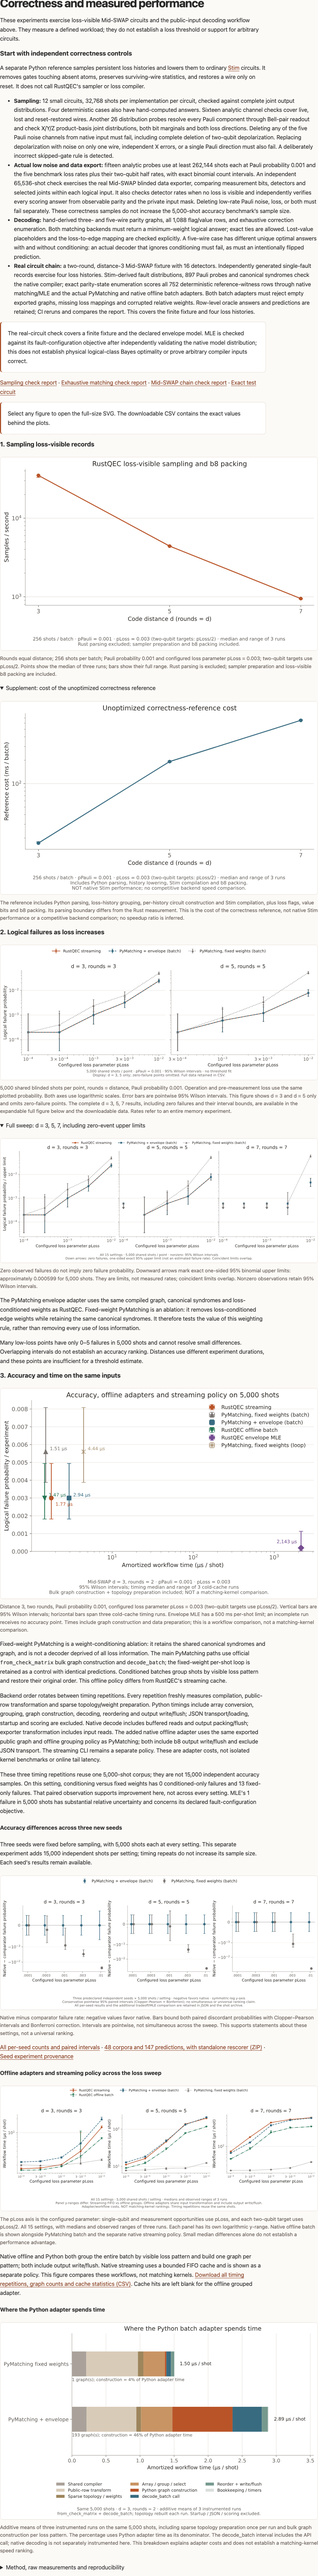
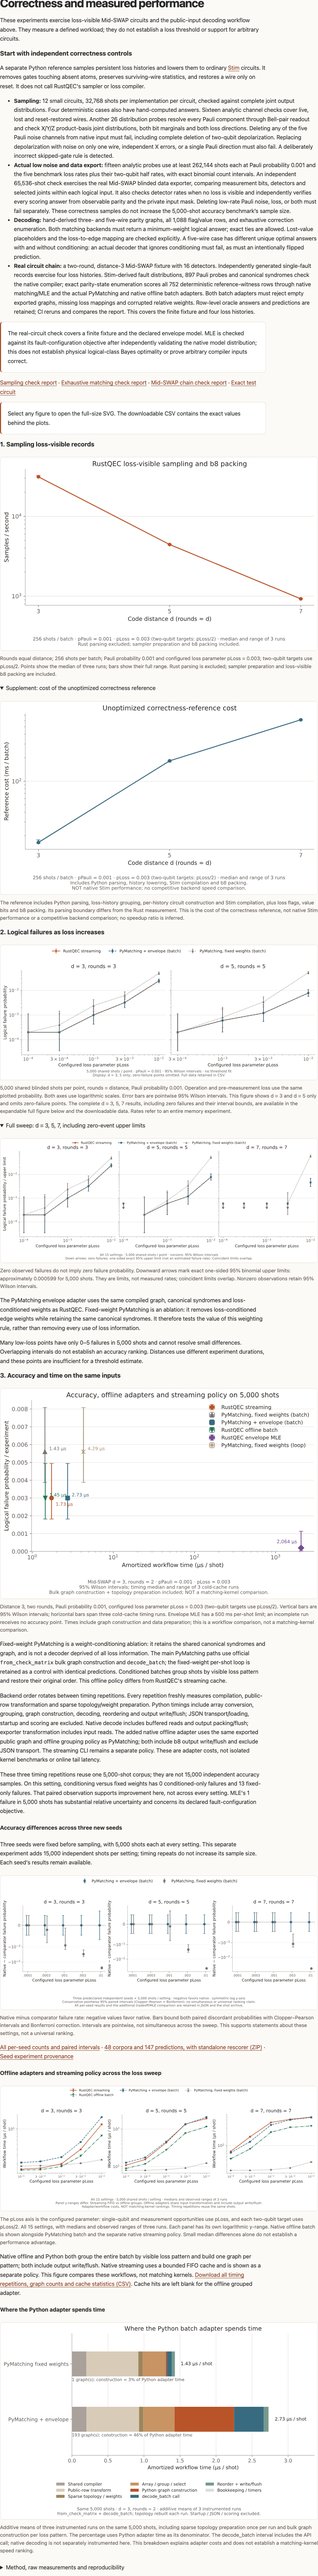
docs: record five fresh PR review rounds and final validation

diff --git a/docs/test-reports/atom-loss-docs/README.md b/docs/test-reports/atom-loss-docs/README.md
@@ -311,3 +311,63 @@ unresolved material issue remained within this exported-graph oracle scope.
 All 62 tests passed again after the deterministic-witness change
 (`drafts/round14-tests.log`, 236.403 seconds). Hosted CI on the pushed artifact
 commit must complete the final Linux native build and all archived-corpus replays.
+
+
+### Repeated fresh-context review of the complete PR
+
+The original user review prompt was recovered from four other Codex tasks:
+“审核PR712 重点看里面做的benchmark是否公平合理 有没有会被攻击的漏洞”.
+Ten new reviewers were run in five rounds, two per round, without inherited
+conversation or prior finding lists. Each reviewed the complete PR diff, not
+only the latest patch. Confirmed findings were fixed before freezing clean
+source and regenerating all evidence for the next round.
+
+| Round | Candidate | Confirmed new evidence-contract gaps |
+| --- | --- | --- |
+| 1 | `afaa9347` | Incomplete decoder-oracle observations; contradictory runtime provenance. |
+| 2 | `dc8313cb` | Sampling negative-control summaries not reconstructed from complete affected observations. |
+| 3 | `2ac3490d` | Work/graph counters not tied to public loss patterns and current decoder observations. |
+| 4 | `e28b515e` | Standalone ZIP scoring accepted missing comparators and inconsistent score/paired fields. |
+| 5 | `88bb87bf` | Neither independent reviewer found an unresolved material issue within the declared scope. |
+
+The fixes retain raw oracle and negative-control observations, independently
+recompute their conclusions, bind workload counts to public inputs and current
+replay, and enforce complete independently scored standalone archives. A
+regression in validation error ordering was also corrected; the final complete
+suite passes. Current published accuracy values were repeatedly independently
+recomputed and found correct throughout these reviews.
+
+The final measured source is
+`b7c274252438e015ea5a2987b06bc8afb2ceb63d`, with **750 bound inputs**. The clean
+run freshly rebuilt five binaries and regenerated all evidence and timings.
+All 537 `.b8` archive entries remain byte-identical to the previous revision,
+including all 64 public corpora/masks/answers and 345 prediction files.
+
+Final local validation:
+
+- **87 tests passed**, across the eight test modules in the evidence CI workflow
+  (`drafts/round18-tests.log`, 487.546 seconds).
+- Both ordinary and optimized-Python full verification passed.
+- Current generator replay matched all 64 corpora. Current decoder replay
+  matched all 213 backend/corpus combinations, all 345 predictions, scores and
+  the original non-time work counters.
+- All eight figures matched Linux/macOS redraws; eight site checks, Chromium
+  and Firefox evidence tests, desktop capture and mobile overflow checks passed.
+- Both final reviewers independently rescored all 64 corpora and 345 predictions
+  and recomputed paired intervals. Each also executed the ten d7/high-loss and
+  tradeoff decoder combinations against current binaries.
+- Reviewer 09 added a separate seven-wire, 16,384-row integer-cost oracle:
+  three matching backends passed; incorrect loss mappings, logical labels and
+  conditioning weights were rejected. It independently recomputed 784 Fisher
+  tests and the low-probability binomial intervals.
+- Reviewer 10 flipped all 110,990 lost-value placeholder bits in the d7/high-loss
+  corpus; four backends retained byte-identical predictions.
+
+Local reports and reproduction scripts are under
+`drafts/fresh-pr712-audit-09/` and `drafts/fresh-pr712-audit-10/`;
+`drafts/fresh-pr712-root/final.md` records the review loop. Review scripts are
+scratch artifacts, not production or CI dependencies. The final conclusion is
+scoped to this workload and evidence contract: it does not authenticate past
+wall-clock time or prove arbitrary-circuit physical correctness. Existing
+single-machine, incomplete timing rotation, low-event-count, shared compiler
+and finite independent physical-oracle limits remain explicitly disclosed.
